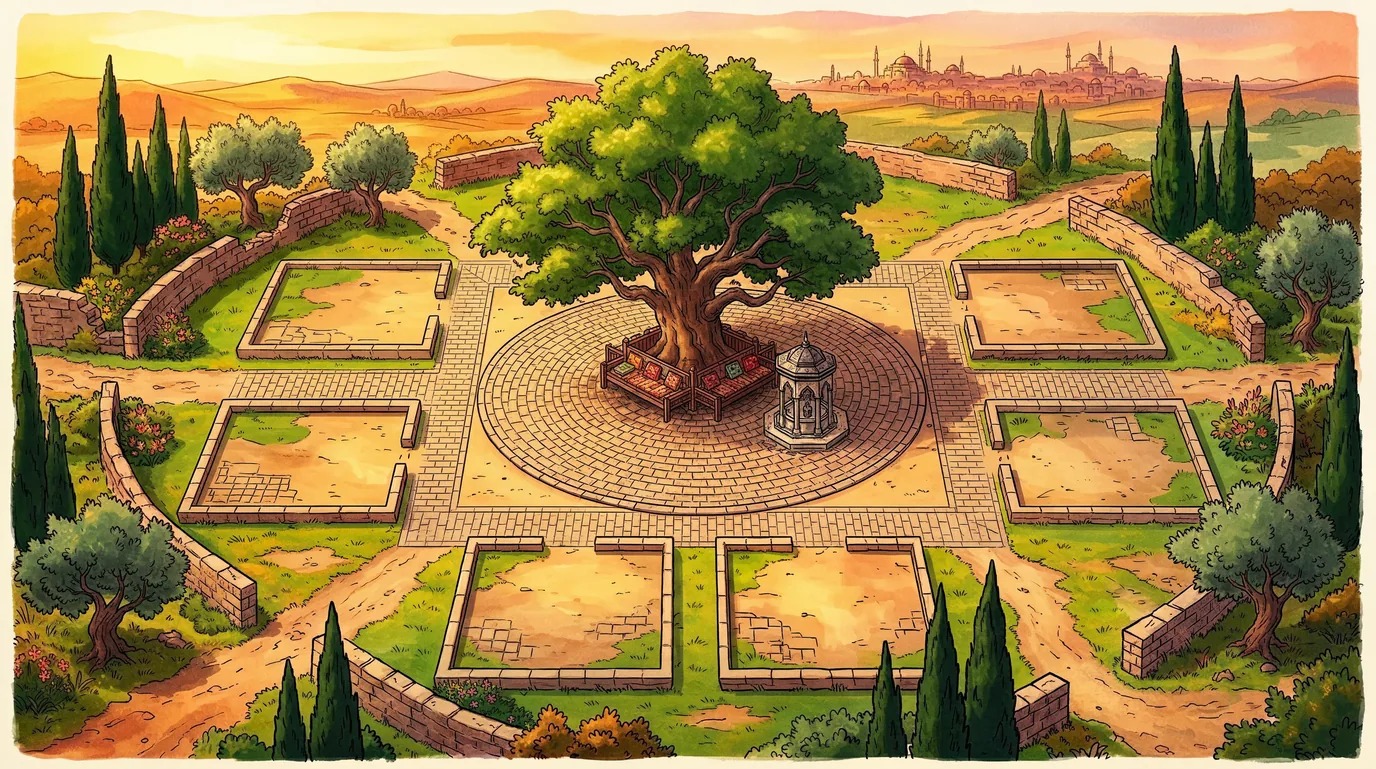
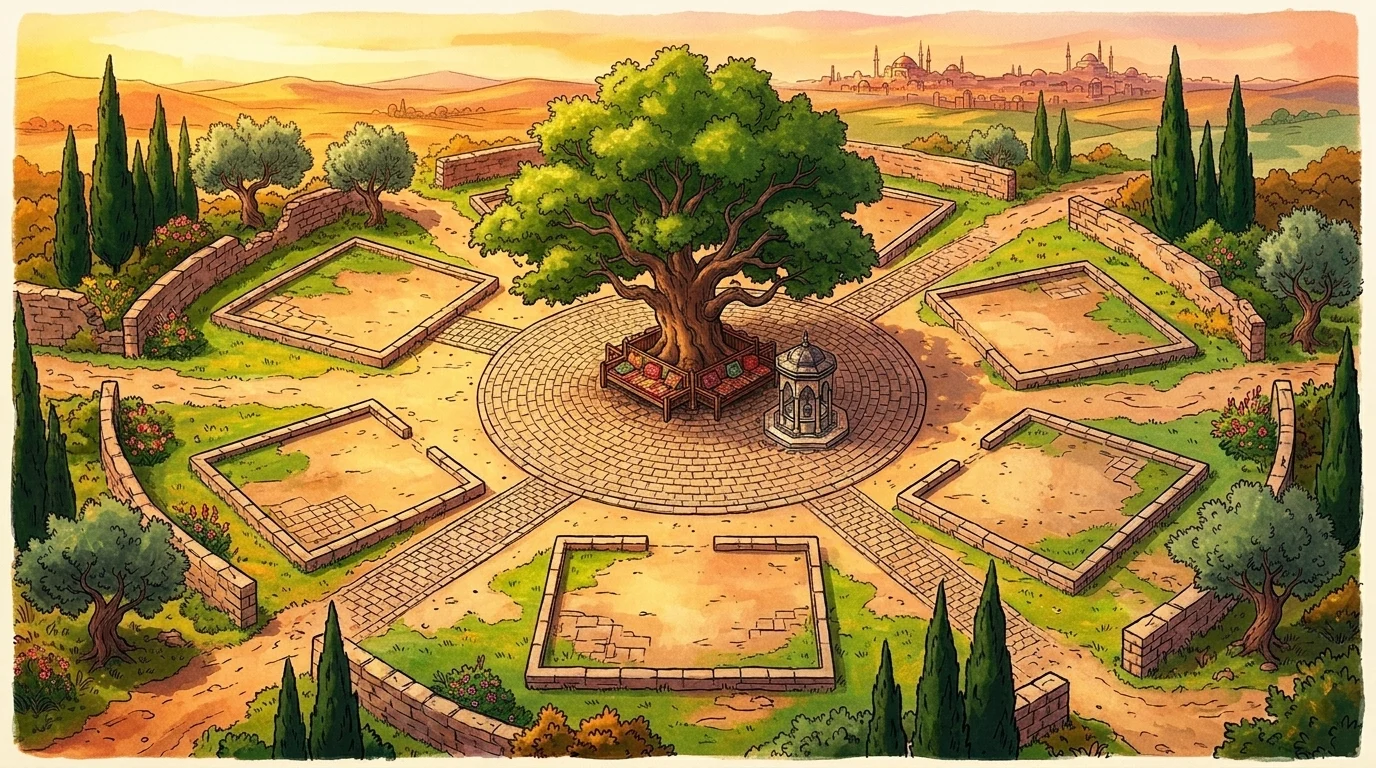
Birlik alanı yuvarlak harita ve koordinat hizalaması

diff --git a/src/lib/oyun/sabitler.js b/src/lib/oyun/sabitler.js
@@ -341,9 +341,9 @@ export const BIRLIK_BINALARI = {
     ad: "Birlik Otağı",
     aciklama: "Birliğin merkezi: birlik kurma, katılma, üyeler, ortak kasa ve teşvikler.",
     gorsel: (s) => `/assets/binalar/otag${Math.min(4, Math.max(1, s || 4))}.webp`,
-    x: 40.3,
-    y: 81,
-    genislik: 14,
+    x: 49.5,
+    y: 80.5,
+    genislik: 16.5,
     maksSeviye: 4,
     bedel: {
       2: { erzak: 150, kereste: 120, tas: 90 },
@@ -356,9 +356,9 @@ export const BIRLIK_BINALARI = {
     aciklama: "Birlik kardeşlerinin ortak namaz çetelesi ve maneviyat merkezi.",
     icMekan: "/assets/mekanlar/cami_ici.webp",
     gorsel: (s) => `/assets/binalar/cami${Math.min(4, Math.max(1, s || 1))}.webp`,
-    x: 25,
-    y: 40.5,
-    genislik: 12.5,
+    x: 26.8,
+    y: 39.0,
+    genislik: 13.0,
     maksSeviye: 4,
     bedel: {
       2: { erzak: 180, kereste: 150, tas: 100 },
@@ -371,9 +371,9 @@ export const BIRLIK_BINALARI = {
     aciklama: "Birlik kardeşleriyle aynı salonda ders çalış: kim çalışıyor, kaç saat çalıştı, birliğin sıralaması.",
     icMekan: "/assets/mekanlar/medrese_ici.webp",
     gorsel: (s) => `/assets/binalar/medrese${Math.min(4, Math.max(1, s || 2))}.webp`,
-    x: 77.4,
-    y: 42.5,
-    genislik: 15,
+    x: 76.8,
+    y: 40.5,
+    genislik: 16.0,
     maksSeviye: 4,
     bedel: {
       2: { erzak: 150, kereste: 130, tas: 90 },
@@ -385,10 +385,10 @@ export const BIRLIK_BINALARI = {
     ad: "Takas Merkezi",
     aciklama: "Birlik kardeşlerinle odun, taş ve mahsul takası yap.",
     icMekan: "/assets/mekanlar/takas_ici.webp",
-    gorsel: () => `/assets/binalar/takasmerkezi.webp`,
-    x: 21.6,
-    y: 63,
-    genislik: 13.5,
+    gorsel: (s) => `/assets/binalar/takasmerkezi${Math.min(2, Math.max(1, s || 1))}.webp`,
+    x: 25.0,
+    y: 64.5,
+    genislik: 15.0,
     maksSeviye: 2,
     bedel: {
       2: { erzak: 120, kereste: 100, tas: 75 },
@@ -398,34 +398,34 @@ export const BIRLIK_BINALARI = {
     ad: "Talimhane",
     aciklama: "Sancak Talimi: bilgi düellosuyla bölge kazan, birliğinin sancağını dalgalandır.",
     icMekan: "/assets/mekanlar/talimhane_ici.webp",
-    gorsel: () => `/assets/binalar/talimhane.webp`,
-    x: 60,
-    y: 81.5,
-    genislik: 15,
+    gorsel: (s) => `/assets/binalar/talimhane${Math.min(2, Math.max(1, s || 1))}.webp`,
+    x: 75.8,
+    y: 64.5,
+    genislik: 17.5,
     maksSeviye: 2,
     bedel: {
       2: { erzak: 120, kereste: 100, tas: 75 },
     },
-  },  haberlesme: {
+  },
+  haberlesme: {
     ad: "Haberleşme Kulesi",
     aciklama: "Birlik kardeşlerinle grup sohbeti. Saygılı ve güzel sözler; kötü söz filtrelenir, şikâyet edilebilir.",
     gorsel: () => `/assets/binalar/haberlesme_kulesi.webp`,
     ikon: "🕊",
     icMekan: "/assets/mekanlar/haberlesme_ici.webp",
-    x: 80.7,
-    y: 61.5,
-    genislik: 6.8,
+    x: 66.5,
+    y: 27.0,
+    genislik: 7.5,
     maksSeviye: 1,
     bedel: {},
   },
-
 };
 
 // ---------- LEVELLAR ----------
 /** Birlik Alanı ve Birlik Meydanı (Çınar Altı sosyal paylaşım) bu levelda açılır */
 export const BIRLIK_ACILIS_LEVEL = 3;
 /** Birlik Meydanı'nın ortasındaki Ulu Çınar (Çınar Altı sosyal paylaşım), herkese açık */
-export const BIRLIK_MEYDANI_CINAR = { x: 37, y: 54 };
+export const BIRLIK_MEYDANI_CINAR = { x: 48, y: 48 };
 export const ALAN_MUCADELESI_LEVEL = 6;
 
 export const LEVELLAR = [
